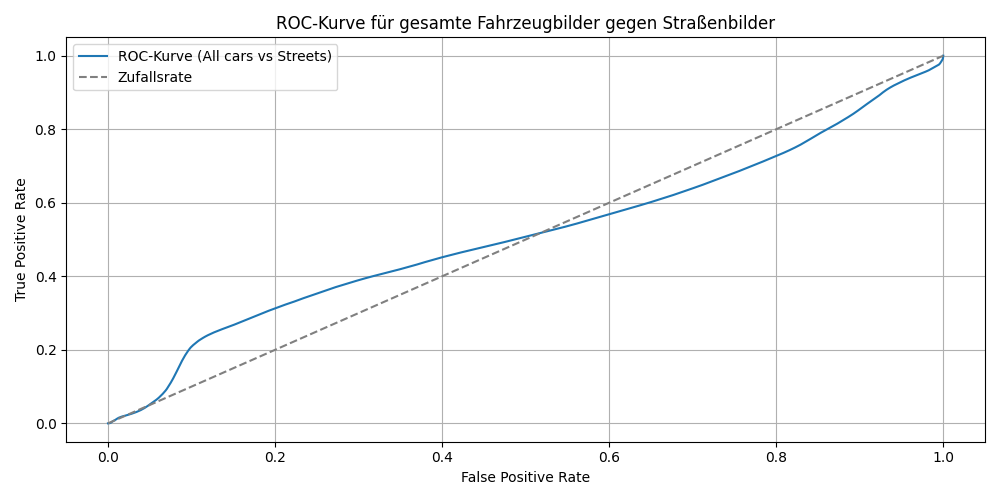
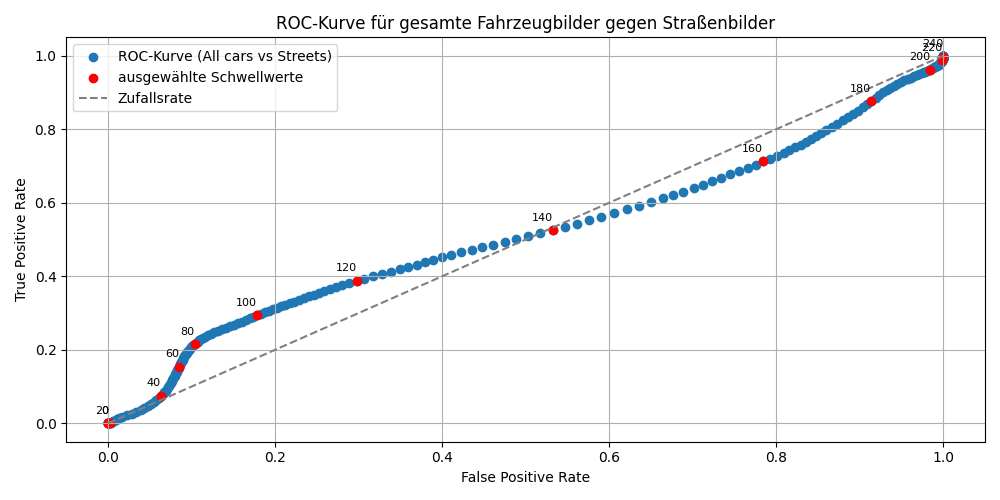
verbesserte ROC-plots

Changed region(s): [[0.093, 0.06, 0.961, 0.87], [0.062, 0.15, 0.31, 0.21], [0.093, 0.09, 0.124, 0.12]]

diff --git a/src/main.py b/src/main.py
@@ -1,6 +1,7 @@
 import numpy as np
 import matplotlib.pyplot as plt
 import matplotlib.ticker as mticker
+from scipy.ndimage import label
 from skimage import io
 import os
 import tqdm
@@ -144,6 +145,10 @@ if __name__ == "__main__":
 
     plt.figure(figsize=(10, 5))
     plt.scatter(false_positive_rates_1a3, true_positive_rates_1a3, label='ROC-Kurve (All cars vs Streets)')
+    plt.scatter(0,0,color='red',label='ausgewählte Schwellwerte') # dummy-plot für übersichtliche legende
+    for i in range(0, len(false_positive_rates_1a3), 20):
+        plt.text(false_positive_rates_1a3[i], true_positive_rates_1a3[i]+0.02, str(i), fontsize=8, ha='right', va='bottom')
+        plt.scatter(false_positive_rates_1a3[i], true_positive_rates_1a3[i],color='red')
     plt.plot([0, 1], [0, 1], linestyle='--', color='gray', label='Zufallsrate')
     plt.title('ROC-Kurve für gesamte Fahrzeugbilder gegen Straßenbilder')
     plt.xlabel('False Positive Rate')
@@ -181,6 +186,10 @@ if __name__ == "__main__":
 
     plt.figure(figsize=(10, 5))
     plt.scatter(false_positive_rates_1b3, true_positive_rates_1b3, label='ROC-Kurve (Central cars vs Streets)')
+    plt.scatter(0,0,color='red',label='ausgewählte Schwellwerte') # dummy-plot für übersichtliche legende
+    for i in range(0, len(false_positive_rates_1b3), 20):
+        plt.text(false_positive_rates_1b3[i], true_positive_rates_1b3[i]+0.02, str(i), fontsize=8, ha='right', va='bottom')
+        plt.scatter(false_positive_rates_1b3[i], true_positive_rates_1b3[i],color='red')
     plt.plot([0, 1], [0, 1], linestyle='--', color='gray', label='Zufallsrate')
     plt.title('ROC-Kurve für zentrale 3x3 Pixel der Fahrzeugbilder gegen Straßenbilder')
     plt.xlabel('False Positive Rate')
